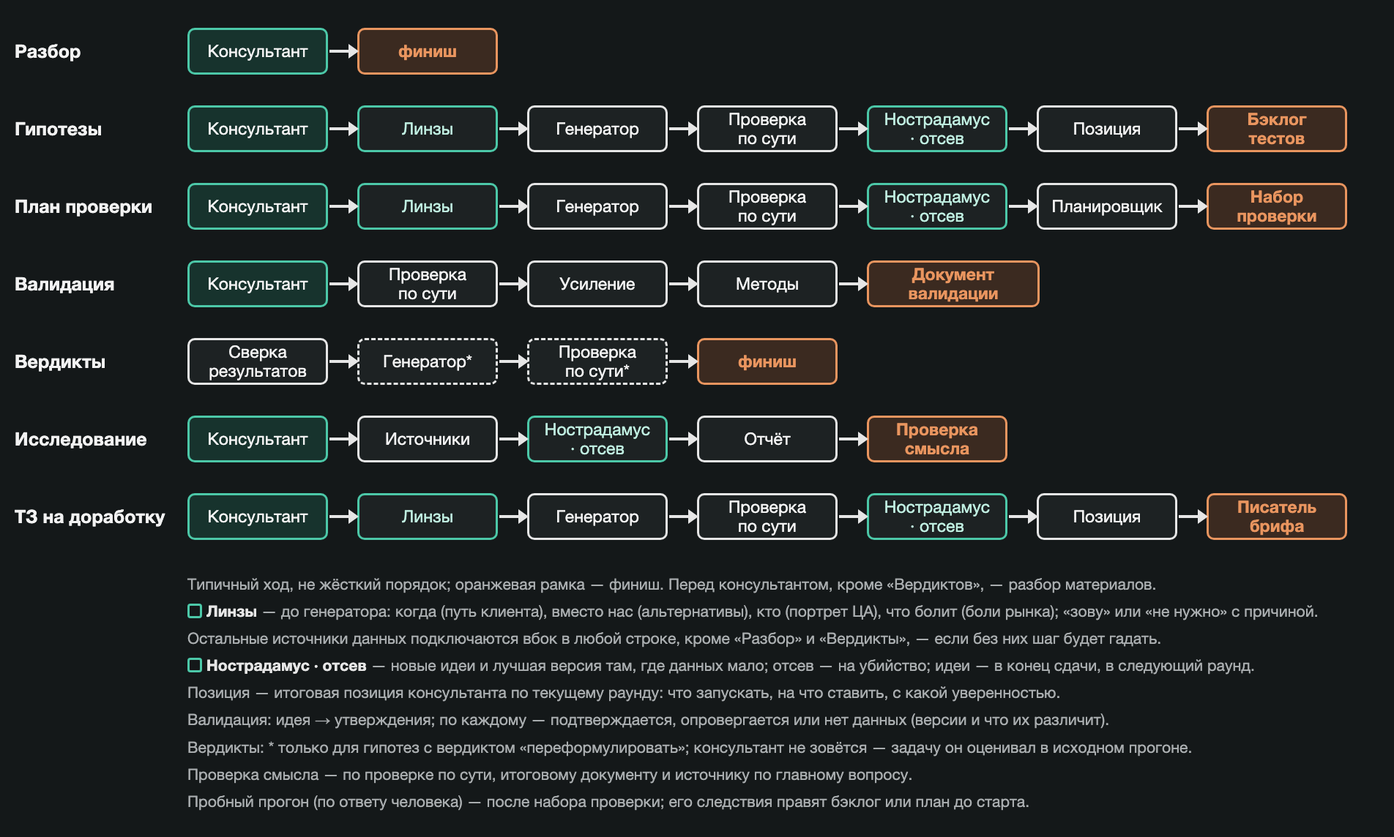
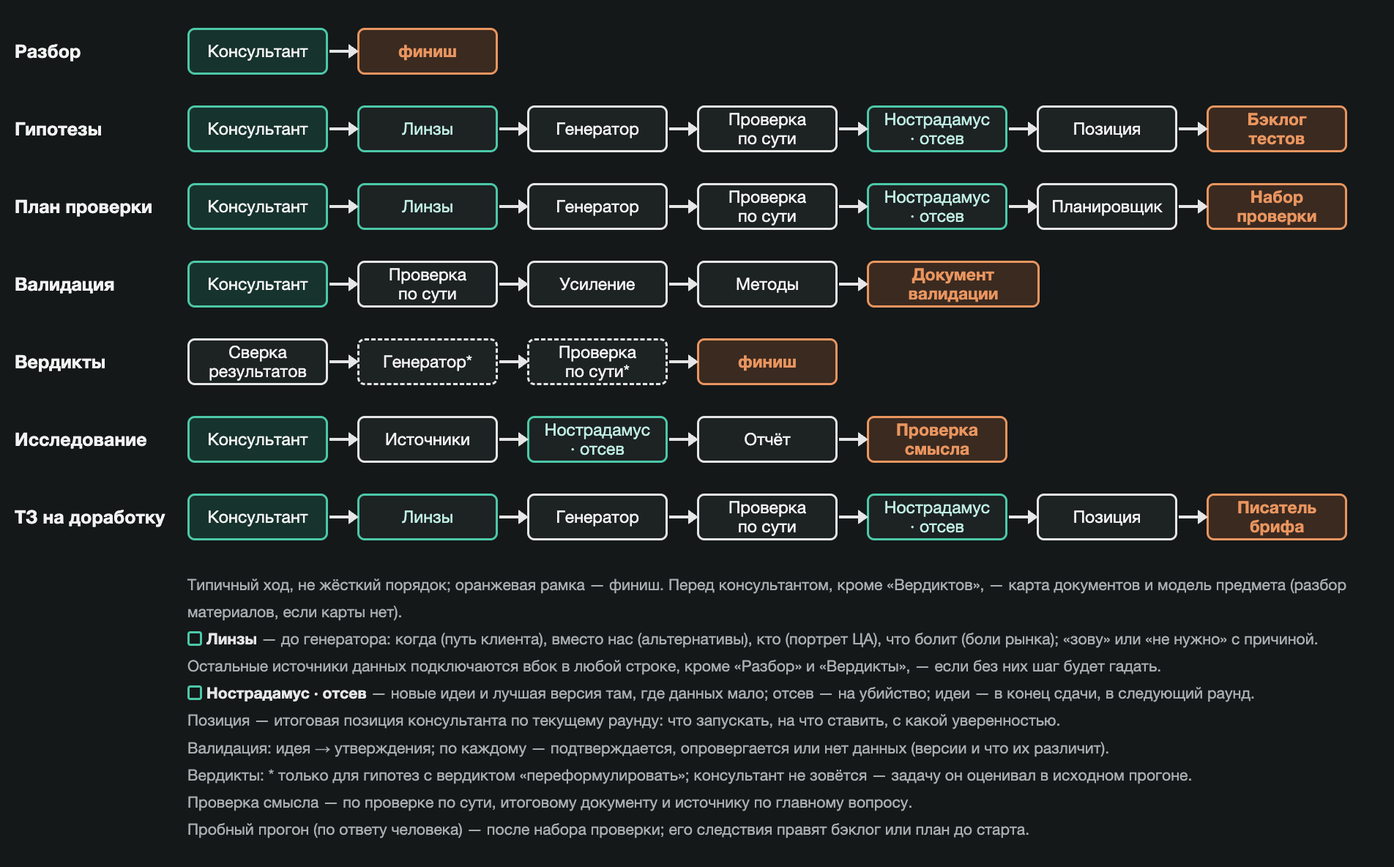
README: текст и схема маршрутов под картографию и модель предмета
Шаг 1 «Читает контекст» описывает карту документов и модель предмета;
подпись четвёртой схемы без «Предложение»; в таблицу ролей добавлены
картограф, углубление документа и модель предмета; в таблицу скриптов шесть
новых (map_docs, check_map, rank_impact, build_model, check_chain, check_rank);
в словарь четыре термина; абзац о том, что проверено и что нет. На схеме
маршрутов перед консультантом — карта документов и модель предмета.

diff --git a/docs/src/architecture-2-routes.html b/docs/src/architecture-2-routes.html
@@ -43,7 +43,7 @@ body{font-family:Inter,"SF Pro Text",-apple-system,"Helvetica Neue",Arial,sans-s
 <div class="b t">Консультант</div><div class="a"></div><div class="b n">Линзы</div><div class="a"></div><div class="b">Генератор</div><div class="a"></div><div class="b">Проверка<br>по сути</div><div class="a"></div><div class="b n">Нострадамус<br>· отсев</div><div class="a"></div><div class="b">Позиция</div><div class="a"></div><div class="b o">Писатель брифа</div></div></div>
 
 <div class="notes">
-Типичный ход, не жёсткий порядок; оранжевая рамка — финиш. Перед консультантом, кроме «Вердиктов», — разбор материалов.<br>
+Типичный ход, не жёсткий порядок; оранжевая рамка — финиш. Перед консультантом, кроме «Вердиктов», — карта документов и модель предмета (разбор материалов, если карты нет).<br>
 <span class="leg"></span><b>Линзы</b> — до генератора: когда (путь клиента), вместо нас (альтернативы), кто (портрет ЦА), что болит (боли рынка); «зову» или «не нужно» с причиной.<br>
 Остальные источники данных подключаются вбок в любой строке, кроме «Разбор» и «Вердикты», — если без них шаг будет гадать.<br>
 <span class="leg"></span><b>Нострадамус · отсев</b> — новые идеи и лучшая версия там, где данных мало; отсев — на убийство; идеи — в конец сдачи, в следующий раунд.<br>

diff --git a/README.md b/README.md
@@ -6,7 +6,7 @@
 
 ## Как система проверяет идею
 
-1. **Читает контекст.** Диспетчер помечает каждый файл в `context/`: прямая речь клиента, данные или утверждение команды, кто автор, какая дата. Затем отдельный агент читает всё целиком и по каждому вопросу из ТЗ выписывает дословно, что уже известно, что противоречит друг другу и чего не хватает. ТЗ — техническое задание: короткий документ, где записано, что ты хочешь получить и чего пока не хватает. Скрипт проверяет, что ни один файл не пропущен. Доказательством считаются слова клиентов, данные и то, что реально случилось. Бриф команды и твоя собственная позиция проверяются так же, как сама идея.
+1. **Читает контекст.** Диспетчер сначала картографирует документы в `context/`: скрипт нумерует строки и размечает числа, срезы, продукт и риск, лёгкая модель описывает каждый документ (кто говорит, сколько людей, слова это или поведение, что измерено) и цитирует по номерам строк. Скрипт проверяет, что цитаты дословны, а ни один файл и ни одно число не пропущены. Важность документов считает скрипт, не модель. Потом оркестратор собирает модель предмета: таблицу «группа × факт», где у каждой клетки надёжность считает скрипт, а пустые клетки остаются пустыми. ТЗ — техническое задание: короткий документ, где записано, что ты хочешь получить, о каких группах речь и что в продукте есть и чего нет. Доказательством считаются слова клиентов, данные и то, что реально случилось. Бриф команды и твоя собственная позиция проверяются так же, как сама идея. Если карты нет, работает прежний шаг: один агент читает всё целиком.
 2. **Раскладывает идею.** Консультант берёт эту карту и варианты решения из ТЗ, формулирует 5–8 утверждений, которые должны быть правдой, чтобы идея сработала, и отмечает те, без которых она не работает. Дальше каждое утверждение проверяется отдельно.
 3. **Ищет за и против.** Сначала твои материалы, потом сеть — отзывы, форумы, страницы конкурентов, отчёты. Под каждое утверждение есть запрос, который мог бы его опровергнуть. Три пересказа одной статьи считаются одним источником.
 4. **Оставляет след.** Фрагмент, на котором стоит вывод, приводится дословно со ссылкой, и скрипт сверяет его с текстом источника. Число — с источником, периодом и формулой, если оно посчитано.
@@ -25,9 +25,9 @@
 
 ### Картография документов и модель предмета
 
-![Предложение: картография документов в диспетчере и модель предмета](docs/architecture-4-document-mapping.png)
+![Картография документов в диспетчере и модель предмета](docs/architecture-4-document-mapping.png)
 
-Контекст читается в два слоя. Диспетчер картографирует документы: скрипт `map_docs.py` нумерует строки и размечает числа, срезы, продукт и риск; лёгкая модель (`document-mapper`) описывает каждый документ по схеме, цитируя по номерам строк; `check_map.py` проверяет цитаты и полноту, важность документов не оценивается. Потом оркестратор строит модель предмета: `rank_impact.py` выбирает документы для углубления (`document-deepener`), `subject-model` выписывает клетки «группа × признак» и рамки продукта, а надёжность клеток считает `build_model.py`. Консультант строит путь от пустых и слабых клеток, гипотеза обязана назвать клетку, рамку продукта и размер группы (`check_chain.py`), порядок в позиции выводится из надёжности клеток (`check_rank.py`). Описание, пороги аудита и риски — в [docs/proposal-document-dossiers.md](docs/proposal-document-dossiers.md).
+Контекст читается в два слоя. Диспетчер картографирует документы: скрипт `map_docs.py` нумерует строки и размечает числа, срезы, продукт и риск; лёгкая модель (`document-mapper`) описывает каждый документ по схеме, цитируя по номерам строк; `check_map.py` проверяет цитаты и полноту, важность документов не оценивается. Потом оркестратор строит модель предмета: `rank_impact.py` выбирает документы для углубления (`document-deepener`), `subject-model` выписывает клетки «группа × признак» и рамки продукта, а надёжность клеток считает `build_model.py`. Консультант строит путь от пустых и слабых клеток, гипотеза обязана назвать клетку, рамку продукта и размер группы (`check_chain.py`), порядок в позиции выводится из надёжности клеток (`check_rank.py`). Описание, пороги аудита и риски — в [docs/proposal-document-dossiers.md](docs/proposal-document-dossiers.md). Что проверено: скрипты прогнаны на выдуманных данных (`selftest.py`), разметка документов — на трёх реальных документах; полный маршрут с агентами и аудит качества на втором наборе документов ещё не прогонялись.
 
 
 ## Что внутри
@@ -67,7 +67,7 @@
 | Диспетчер | Превращает запрос в ТЗ: что ты хочешь получить, чего не хватает, какой результат будет. Задаёт три вопроса о том, что важнее всего уточнить. Если дело идёт к живой проверке, добавляет четвёртый, необязательный: сделать ли пробный прогон — задать будущие вопросы выдуманным респондентам и посмотреть, какие из них наводящие или непонятные (дольше и дороже, ничего не доказывает про реальных клиентов). Исполнителей диспетчер не выбирает |
 | Человек | Отвечает на вопросы диспетчера (три, иногда четыре) и согласует ТЗ одним сообщением. Это единственная пауза во всей системе |
 | Оркестратор | Ведёт задачу по шагам: решает, какого исполнителя позвать на каждый пункт пути, в каком порядке и когда остановиться. В задачах на гипотезы до генератора проходит вопрос через четыре линзы — когда, вместо нас, кто, что болит — и зовёт источники за внешним сырьём. После проверки по сути зовёт Нострадамуса и отсев его идей. Для каждого шага записывает, какой инструмент методологии взять из указателя. После шага запускает проверки и пишет журнал (лог) |
-| Исполнители | Агенты с узкой работой: разбор материалов (что уже известно по каждому вопросу ТЗ); консультант (оценивает постановку и строит путь от «как сейчас» к «как нужно»: что должно стать известно); генератор гипотез; проверка по сути; планировщик; набор для проверки (скрипты и тексты для живой проверки); восемь источников данных (разбор интервью, сводка интервью, боли рынка, портрет аудитории, альтернативы, оценка рынка, путь клиента, разбор экспериментов); проверка смысла; Нострадамус (новые идеи вне колеи маршрута, лучшая версия там, где данных не хватило, и следующий шаг); сборщик итогового документа; писатель брифа; выдуманные респонденты (синтетика); сверка результатов |
+| Исполнители | Агенты с узкой работой: картограф документов (описывает и размечает файлы контекста, зовёт диспетчер); углубление документа (читает важный документ целиком); модель предмета (таблица «группа × факт» и рамки продукта); разбор материалов (запасной шаг, когда карты нет); консультант (оценивает постановку и строит путь от «как сейчас» к «как нужно»: что должно стать известно); генератор гипотез; проверка по сути; планировщик; набор для проверки (скрипты и тексты для живой проверки); восемь источников данных (разбор интервью, сводка интервью, боли рынка, портрет аудитории, альтернативы, оценка рынка, путь клиента, разбор экспериментов); проверка смысла; Нострадамус (новые идеи вне колеи маршрута, лучшая версия там, где данных не хватило, и следующий шаг); сборщик итогового документа; писатель брифа; выдуманные респонденты (синтетика); сверка результатов |
 
 К источникам данных оркестратор обращается по выбору, когда без ответа гипотезы или вердикт будут догадкой. Исключение — линзы: в задачах на гипотезы, план и ТЗ на доработку он до генератора решает по каждой из четырёх, звать ли источник за сырьём (путь клиента, альтернативы, портрет аудитории, боли рынка), и при открытой сети хотя бы один зовёт обязательно — иначе гипотезы вырастают из одного корня. Если ответ лежит внутри компании (воронка, выгрузка, итоги прошлой кампании), система не ищет его в сети: оркестратор пишет запрос аналитику и кладёт его в итоговую сводку отдельным блоком.
 
@@ -96,6 +96,10 @@
 - **Опора** — то, на чём стоит вывод: дословный фрагмент интервью, данные, случившееся. Утверждение команды опорой не считается.
 - **Карта доверия** — раздел итогового документа: что держится на нескольких независимых источниках, что на одном, что стоит проверить руками.
 - **Сдача** — итоговая сводка после работы: результат, что осталось неизвестным, запросы данных аналитику.
+- **Карта документов** — пронумерованный текст каждого документа с тегами и досье: тип, про кого, сколько людей, что измерено, дата, выводы, числа и срезы, цитаты по номерам строк. Описывает документы и не оценивает их важность.
+- **Модель предмета** — таблица знаний «группа × факт»: что известно про каждую группу, откуда, на сколько человек, слова это или поведение. Пустая клетка остаётся пустой.
+- **Надёжность клетки** — значение, версия, идея или нет данных. Считается скриптом: совпала ли группа источника с группой строки, указан ли размер, поведение это или слова.
+- **Рамки продукта** — что в продукте есть и чего нет (форма кешбэка, лимиты, виды карт, выгрузки). Механика, которой в продукте нет, гипотезой не становится.
 - **Пробный прогон** — проверка скрипта живой проверки на выдуманных респондентах до реальных звонков. Находит наводящие и непонятные вопросы и ветки теста, которые ничего не различат. О реальных клиентах ничего не доказывает, но его находки правят бэклог или план до старта.
 - **Линзы** — четыре вопроса, через которые оркестратор пропускает задачу до генератора: когда (путь клиента), вместо нас (альтернативы), кто (портрет аудитории), что болит (боли рынка). Нужны, чтобы гипотезы строились не только из своих материалов, но и из внешнего сырья.
 - **Нострадамус** — роль в конце маршрута: придумывает новые идеи вне проверенного набора и даёт лучшую версию ответа там, где данных не хватило. Его идеи — оценка, а не опора.
@@ -126,6 +130,12 @@
 | `check_ideas.py` | отсев новых идей: вердикт по каждой (кажется валидной / переделать первый шаг / снять), «Возражения» отдельным полем, выполнимость первого шага, у живых — данные для следующего раунда, снятые — с причиной, а не за «нет опор» |
 | `check_rehearsal.py` | пробный прогон на синтетике родил следствия: у каждого теста статус (как есть / после правки / не запускать), что меняется в решении, что подсказали персоны; в бэклоге или плане ответ на каждое следствие |
 | `check_knowledge.py` | разбор материалов: каждый файл контекста в таблице покрытия, по каждому пункту GAP есть раздел и «чего нет» |
+| `map_docs.py` | картография документов: нумерует строки текста, собирает таблицы по ячейкам, размечает теги «число», «срез», «продукт», «риск»; карта кэшируется по хэшу файла |
+| `check_map.py` | досье документов: блок на каждый файл, все поля, цитаты адресны и дословны по номеру строки, строки с числами учтены или отброшены с причиной, оценки важности в досье нет |
+| `rank_impact.py` | важность документов по формуле, а не по суждению модели; кандидаты на углубление с лимитом по тиру |
+| `build_model.py` | модель предмета: матрица «группа × признак»; надёжность клетки (значение, версия, идея, нет данных) считает скрипт; пустые и слабые клетки |
+| `check_chain.py` | у каждой гипотезы есть клетка модели, рамка продукта со статусом «есть» и размер группы с числом |
+| `check_rank.py` | порядок направлений в позиции выводится из надёжности клеток; клетки без данных не ранжируются |
 | `check_path.py` | каждый пункт GAP привязан к пути консультанта или стоит «вне пути» с причиной; с `--plan` — каждый вариант решения покрыт, есть пункт на проверку допущения; перед сдачей — у каждого пункта пути есть исход |
 | `check_log_sources.py` | в задачах на гипотезы перед генератором — блок ЛИНЗЫ (когда, вместо нас, кто, что болит: зову или не нужно с причиной); у каждого шага-источника в логе записаны вопрос, зачем он нужен и что по нему уже известно; указан инструмент методологии из указателя (или «—») |
 | `check_fresh.py` | старый веб-источник процитирован с годом |

diff --git a/docs/README.md b/docs/README.md
@@ -10,6 +10,6 @@
   --screenshot=docs/architecture-1-roles.png "file://$PWD/docs/src/architecture-1-roles.html"
 ```
 
-Для схемы маршрутов — `--window-size=952,572` и `architecture-2-routes`. Для четвёртой схемы — `--window-size=952,450` и `architecture-4-document-mapping`. У третьей схемы (пример валидации) исходника нет: маршрут валидации не менялся.
+Для схемы маршрутов — `--window-size=952,592` и `architecture-2-routes`. Для четвёртой схемы — `--window-size=952,450` и `architecture-4-document-mapping`. У третьей схемы (пример валидации) исходника нет: маршрут валидации не менялся.
 
 Предложение по картографии документов — `proposal-document-dossiers.md` в этой папке. Актуальное описание системы — `AGENTS.md` в корне; контракты скиллов — `.claude/skills/orchestrator/registry.md`.
